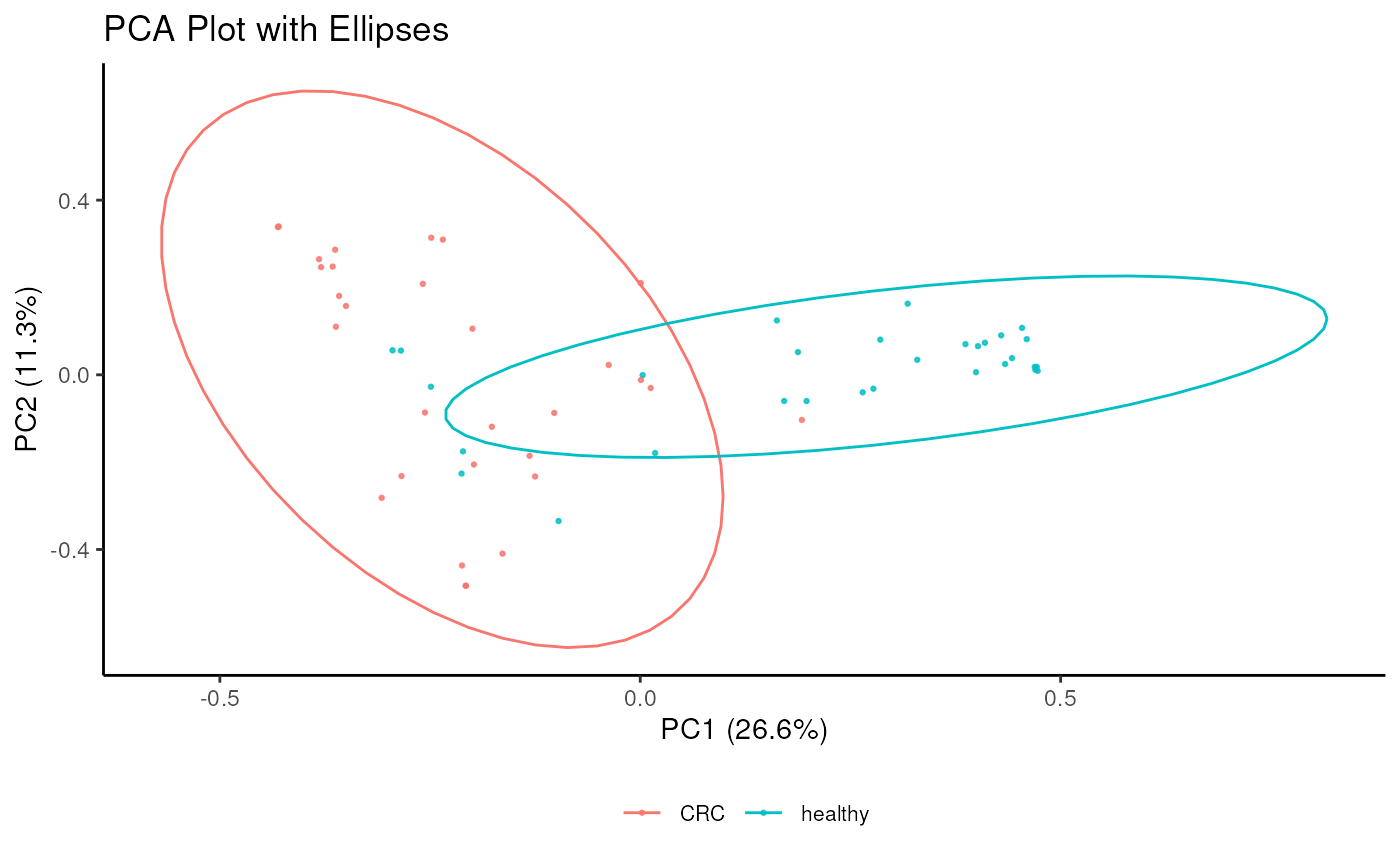
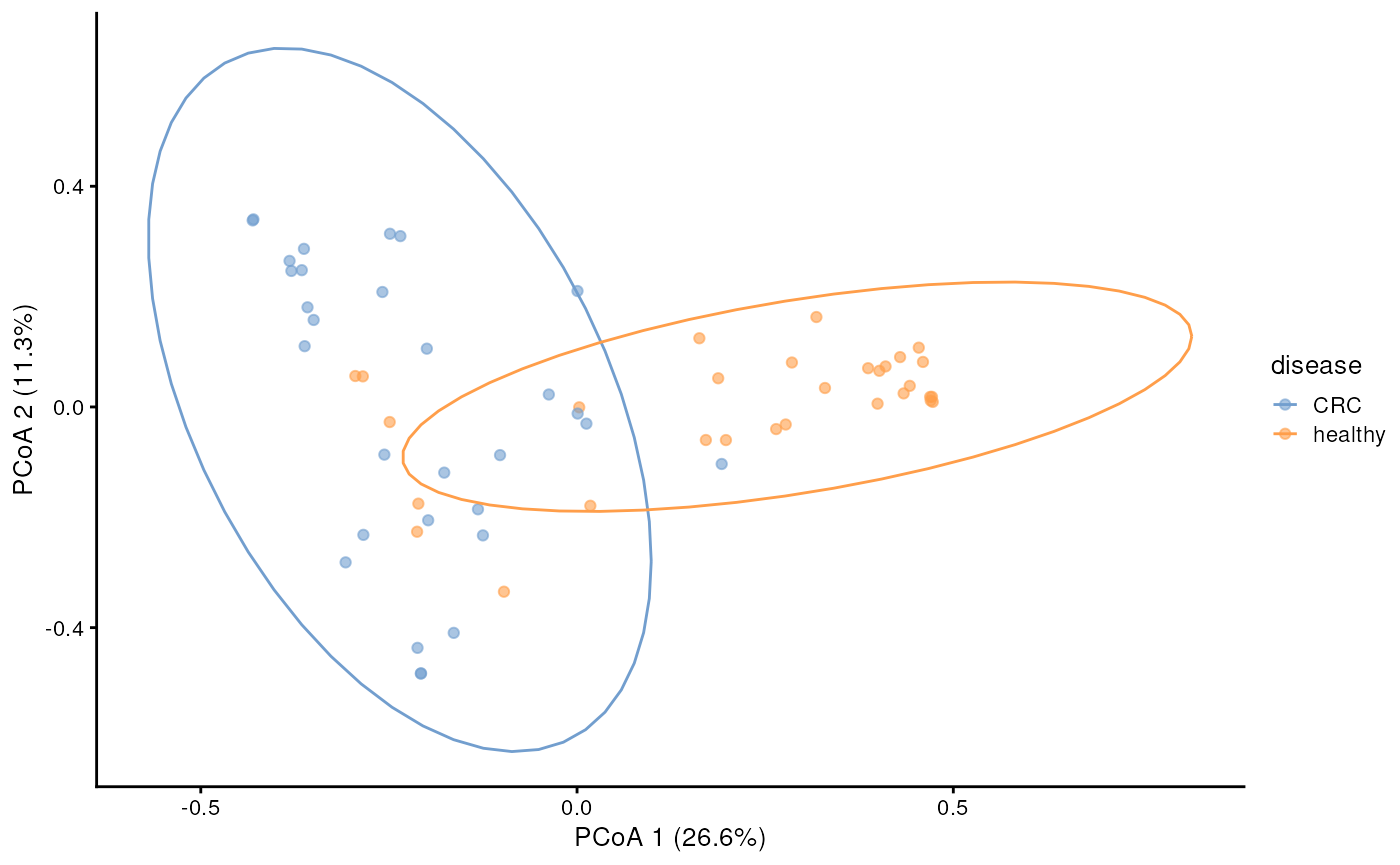
Deploying to gh-pages from @ microbiome/miaDemo@13db067a9cef89b8af99bfda8dfaf100ac384f33 🚀

diff --git a/articles/eccb_workflow.html b/articles/eccb_workflow.html
@@ -522,32 +522,8 @@ and plot the PCoA.</p>
 whether the microbial community in two groups is different. You can
 achieve it using the code below.</p>
 <div class="sourceCode" id="cb7"><pre class="downlit sourceCode r">
-<code class="sourceCode R"><span><span class="co"># Add ellipses with ggplot manual</span></span>
-<span></span>
-<span><span class="co"># Extract PCoA coordinates</span></span>
-<span><span class="va">pcoa_coords</span> <span class="op">&lt;-</span> <span class="fu"><a href="https://rdrr.io/r/base/as.data.frame.html" class="external-link">as.data.frame</a></span><span class="op">(</span><span class="fu">reducedDim</span><span class="op">(</span><span class="va">tse</span>, <span class="st">"MDS_bray"</span><span class="op">)</span><span class="op">)</span></span>
-<span><span class="fu"><a href="https://rdrr.io/r/base/colnames.html" class="external-link">colnames</a></span><span class="op">(</span><span class="va">pcoa_coords</span><span class="op">)</span> <span class="op">&lt;-</span> <span class="fu"><a href="https://rdrr.io/r/base/c.html" class="external-link">c</a></span><span class="op">(</span><span class="st">"PC1"</span>, <span class="st">"PC2"</span><span class="op">)</span></span>
-<span></span>
-<span><span class="co"># Add metadata</span></span>
-<span><span class="va">pcoa_coords</span><span class="op">$</span><span class="va">disease</span> <span class="op">&lt;-</span> <span class="fu">colData</span><span class="op">(</span><span class="va">tse</span><span class="op">)</span><span class="op">[[</span><span class="st">"disease"</span><span class="op">]</span><span class="op">]</span></span>
-<span></span>
-<span><span class="co"># Filter out NA values in the variable column</span></span>
-<span><span class="va">pcoa_coords</span> <span class="op">&lt;-</span> <span class="fu"><a href="https://rdrr.io/r/stats/na.fail.html" class="external-link">na.omit</a></span><span class="op">(</span><span class="va">pcoa_coords</span><span class="op">)</span></span>
-<span></span>
-<span><span class="co"># Create the plot with ellipses</span></span>
-<span><span class="va">p_elipse</span> <span class="op">&lt;-</span> <span class="fu">ggplot</span><span class="op">(</span><span class="va">pcoa_coords</span>, <span class="fu">aes</span><span class="op">(</span>x <span class="op">=</span> <span class="va">PC1</span>, y <span class="op">=</span> <span class="va">PC2</span>, color <span class="op">=</span> <span class="va">disease</span><span class="op">)</span><span class="op">)</span> <span class="op">+</span></span>
-<span>    <span class="fu">geom_point</span><span class="op">(</span>alpha<span class="op">=</span><span class="fl">0.8</span>, size<span class="op">=</span><span class="fl">0.5</span><span class="op">)</span> <span class="op">+</span></span>
-<span>    <span class="fu">theme_classic</span><span class="op">(</span><span class="op">)</span> <span class="op">+</span> </span>
-<span>    <span class="fu">stat_ellipse</span><span class="op">(</span><span class="fu">aes</span><span class="op">(</span>color <span class="op">=</span> <span class="va">disease</span><span class="op">)</span>, level <span class="op">=</span> <span class="fl">0.95</span><span class="op">)</span> <span class="op">+</span>  <span class="co"># Ellipses based on disease</span></span>
-<span>    <span class="fu">labs</span><span class="op">(</span>x <span class="op">=</span> <span class="fu"><a href="https://rdrr.io/r/base/paste.html" class="external-link">paste</a></span><span class="op">(</span><span class="st">"PC1 ("</span>, <span class="fu"><a href="https://rdrr.io/r/base/Round.html" class="external-link">round</a></span><span class="op">(</span><span class="fl">100</span> <span class="op">*</span> <span class="va">rel_eig</span><span class="op">[</span><span class="fl">1</span><span class="op">]</span>, <span class="fl">1</span><span class="op">)</span>, <span class="st">"%)"</span>, sep <span class="op">=</span> <span class="st">""</span><span class="op">)</span>,</span>
-<span>         y <span class="op">=</span> <span class="fu"><a href="https://rdrr.io/r/base/paste.html" class="external-link">paste</a></span><span class="op">(</span><span class="st">"PC2 ("</span>, <span class="fu"><a href="https://rdrr.io/r/base/Round.html" class="external-link">round</a></span><span class="op">(</span><span class="fl">100</span> <span class="op">*</span> <span class="va">rel_eig</span><span class="op">[</span><span class="fl">2</span><span class="op">]</span>, <span class="fl">1</span><span class="op">)</span>, <span class="st">"%)"</span>, sep <span class="op">=</span> <span class="st">""</span><span class="op">)</span>,</span>
-<span>         title <span class="op">=</span> <span class="st">"PCA Plot with Ellipses"</span><span class="op">)</span> <span class="op">+</span></span>
-<span>    <span class="fu">theme</span><span class="op">(</span>legend.title <span class="op">=</span> <span class="fu">element_blank</span><span class="op">(</span><span class="op">)</span>,</span>
-<span>          legend.text <span class="op">=</span> <span class="fu">element_text</span><span class="op">(</span>size <span class="op">=</span> <span class="fl">8</span><span class="op">)</span>,</span>
-<span>          legend.position <span class="op">=</span> <span class="st">'bottom'</span><span class="op">)</span></span>
-<span></span>
-<span><span class="co"># Print the plot</span></span>
-<span><span class="fu"><a href="https://rdrr.io/r/base/print.html" class="external-link">print</a></span><span class="op">(</span><span class="va">p_elipse</span><span class="op">)</span></span></code></pre></div>
+<code class="sourceCode R"><span><span class="va">p_elipse</span> <span class="op">&lt;-</span> <span class="va">p1</span> <span class="op">+</span> <span class="fu">stat_ellipse</span><span class="op">(</span><span class="fu">aes</span><span class="op">(</span>color <span class="op">=</span> <span class="va">colour_by</span><span class="op">)</span>, level <span class="op">=</span> <span class="fl">0.95</span><span class="op">)</span></span>
+<span><span class="va">p_elipse</span></span></code></pre></div>
 <p><img src="eccb_workflow_files/figure-html/PCoA%20elipse-1.png" width="700"></p>
 <p>Additionally, we may want to also perform PERMANOVA analysis to
 further estimate whether the microbial community is statistically
